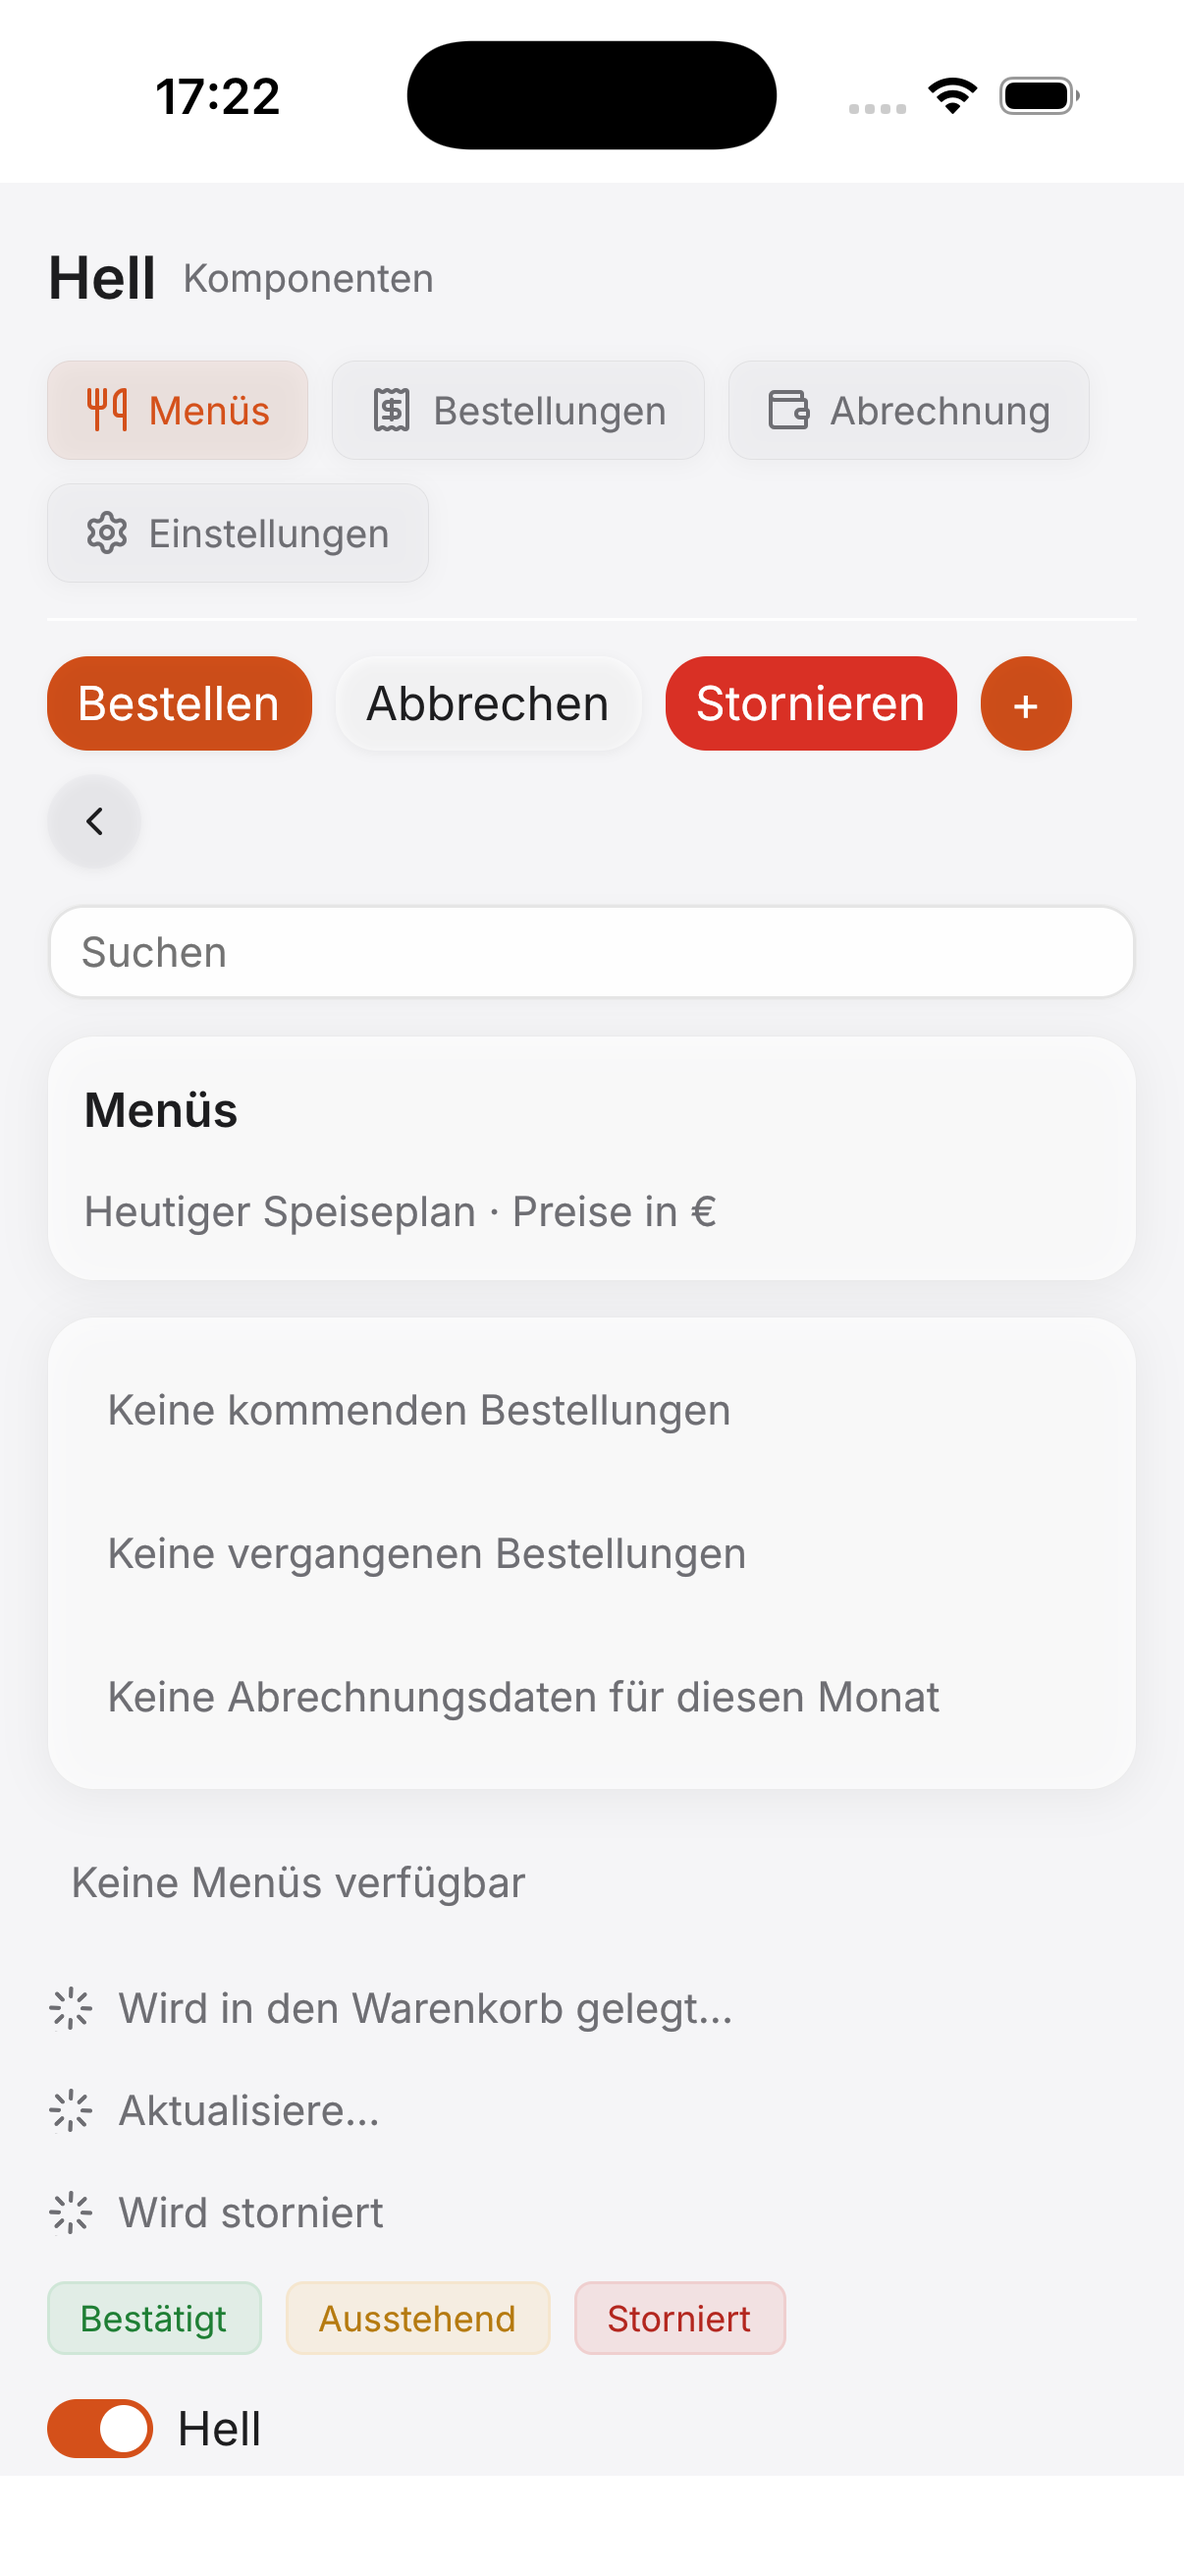
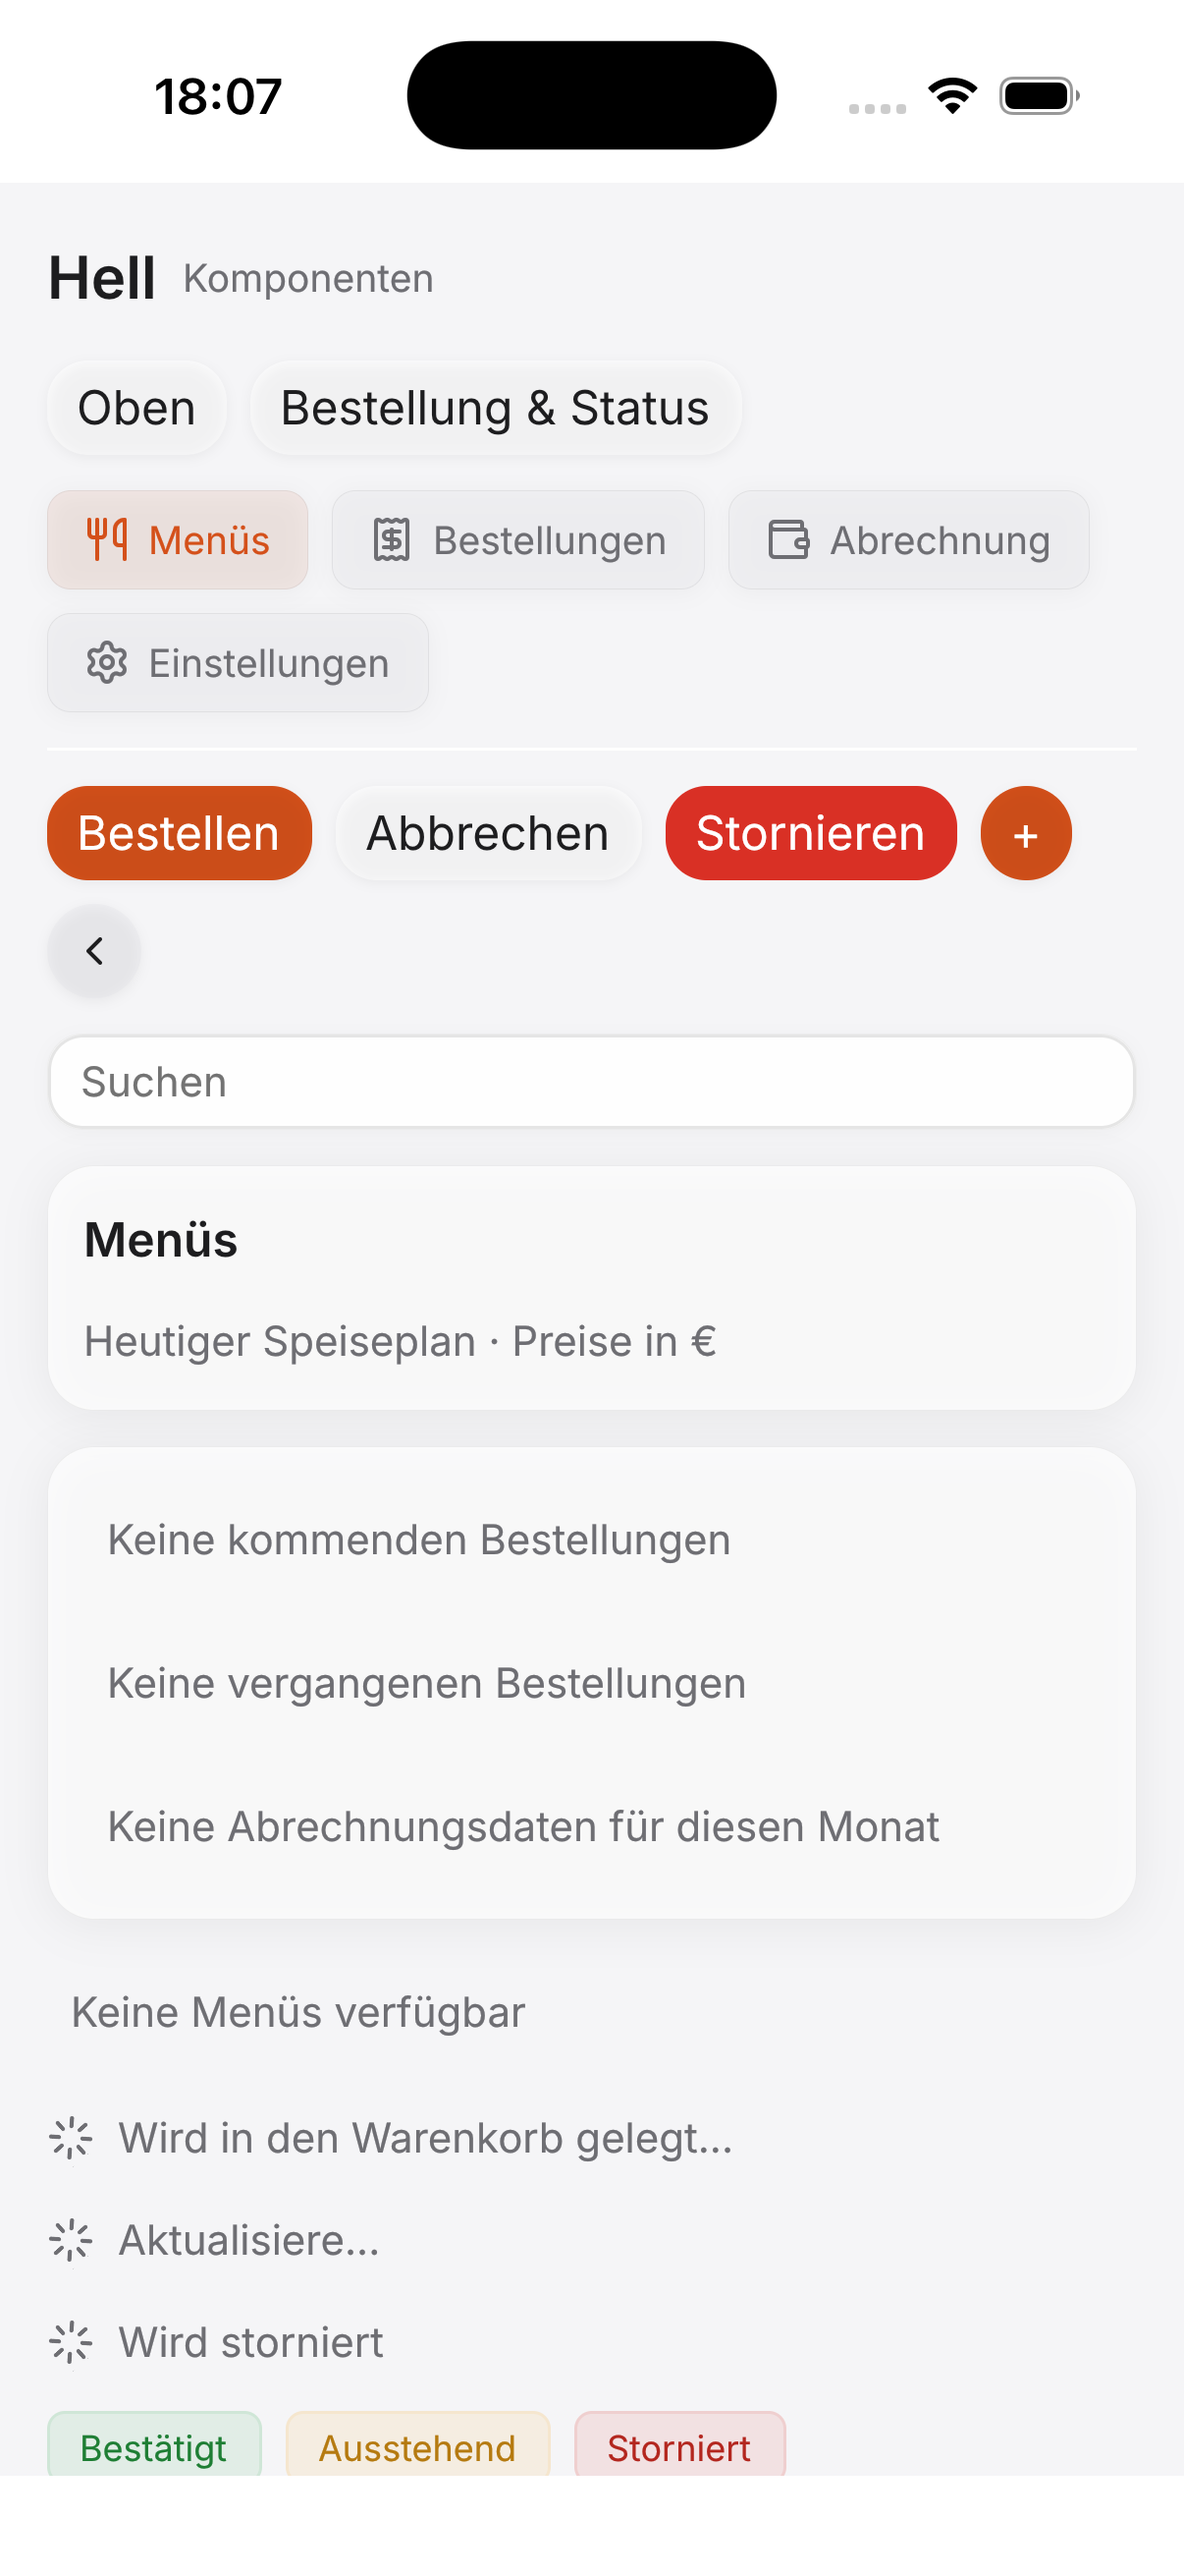
docs(evidence): 4.1 simulator gallery captures incl. page switch, refreshed build proofs

diff --git a/src/ui/app/src/lib.rs b/src/ui/app/src/lib.rs
@@ -93,7 +93,9 @@ fn debug_prop(name: &str) -> Option<String> {
     Some(String::from_utf8_lossy(&bytes).trim().to_string())
 }
 
+// Unused in Android release builds, where the only callers are stubbed out.
 #[cfg(not(all(target_os = "android", debug_assertions)))]
+#[allow(dead_code)]
 fn debug_prop(_name: &str) -> Option<String> {
     None
 }
